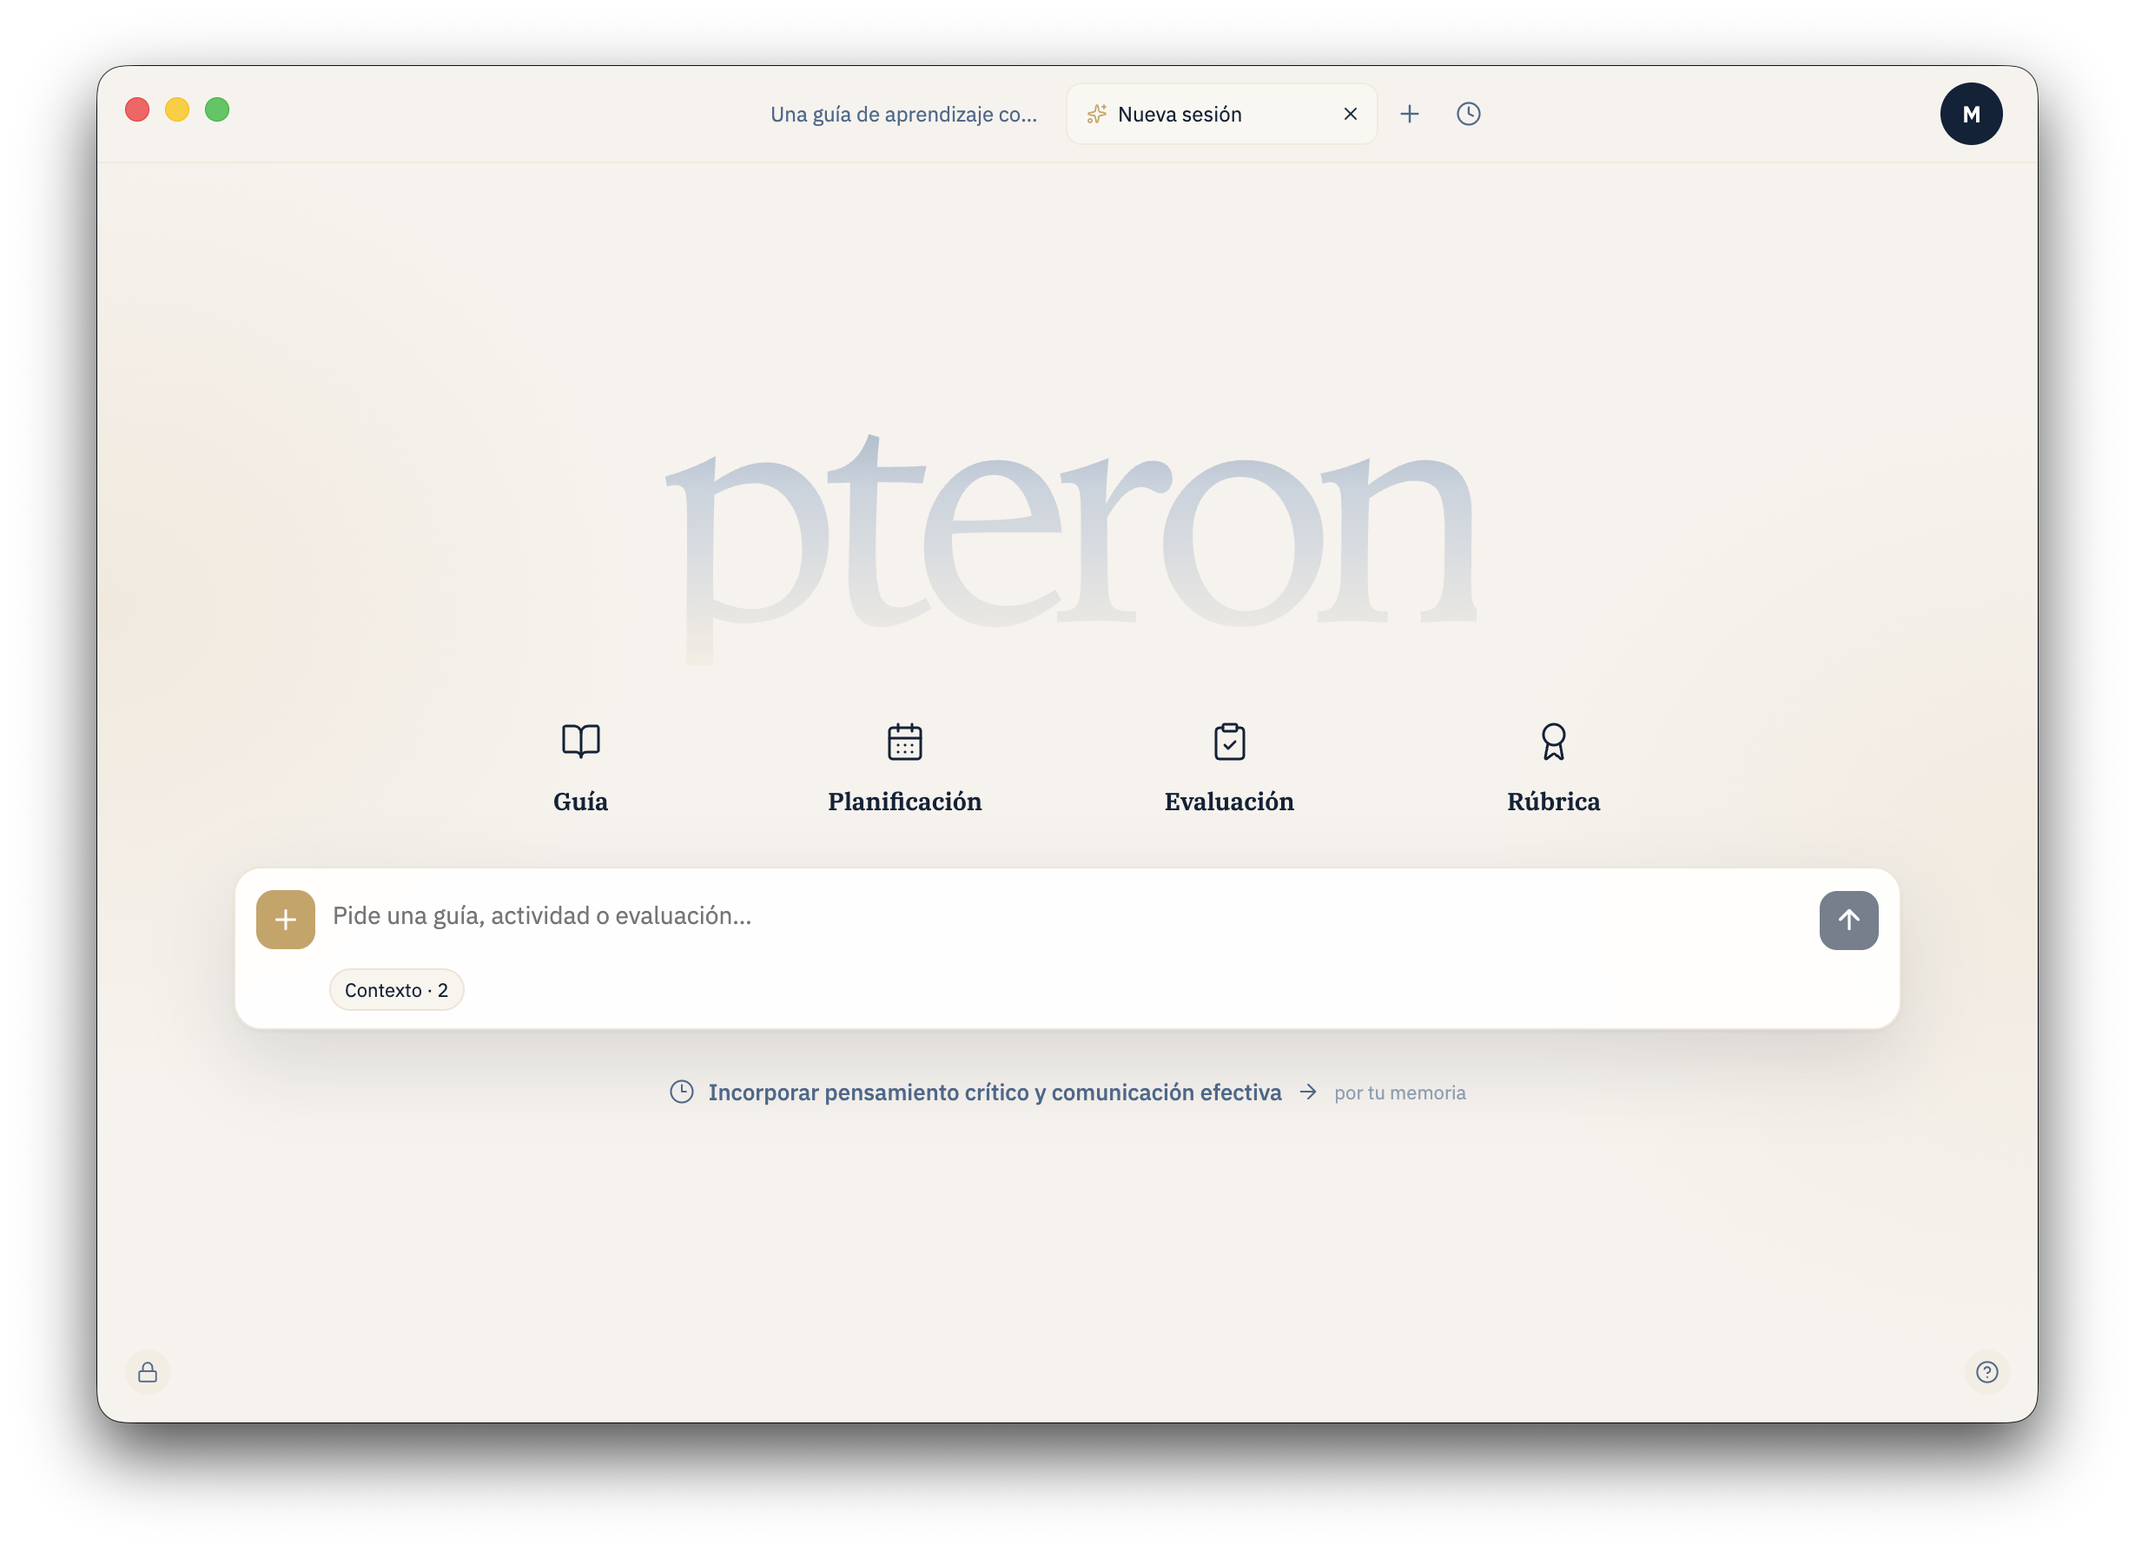
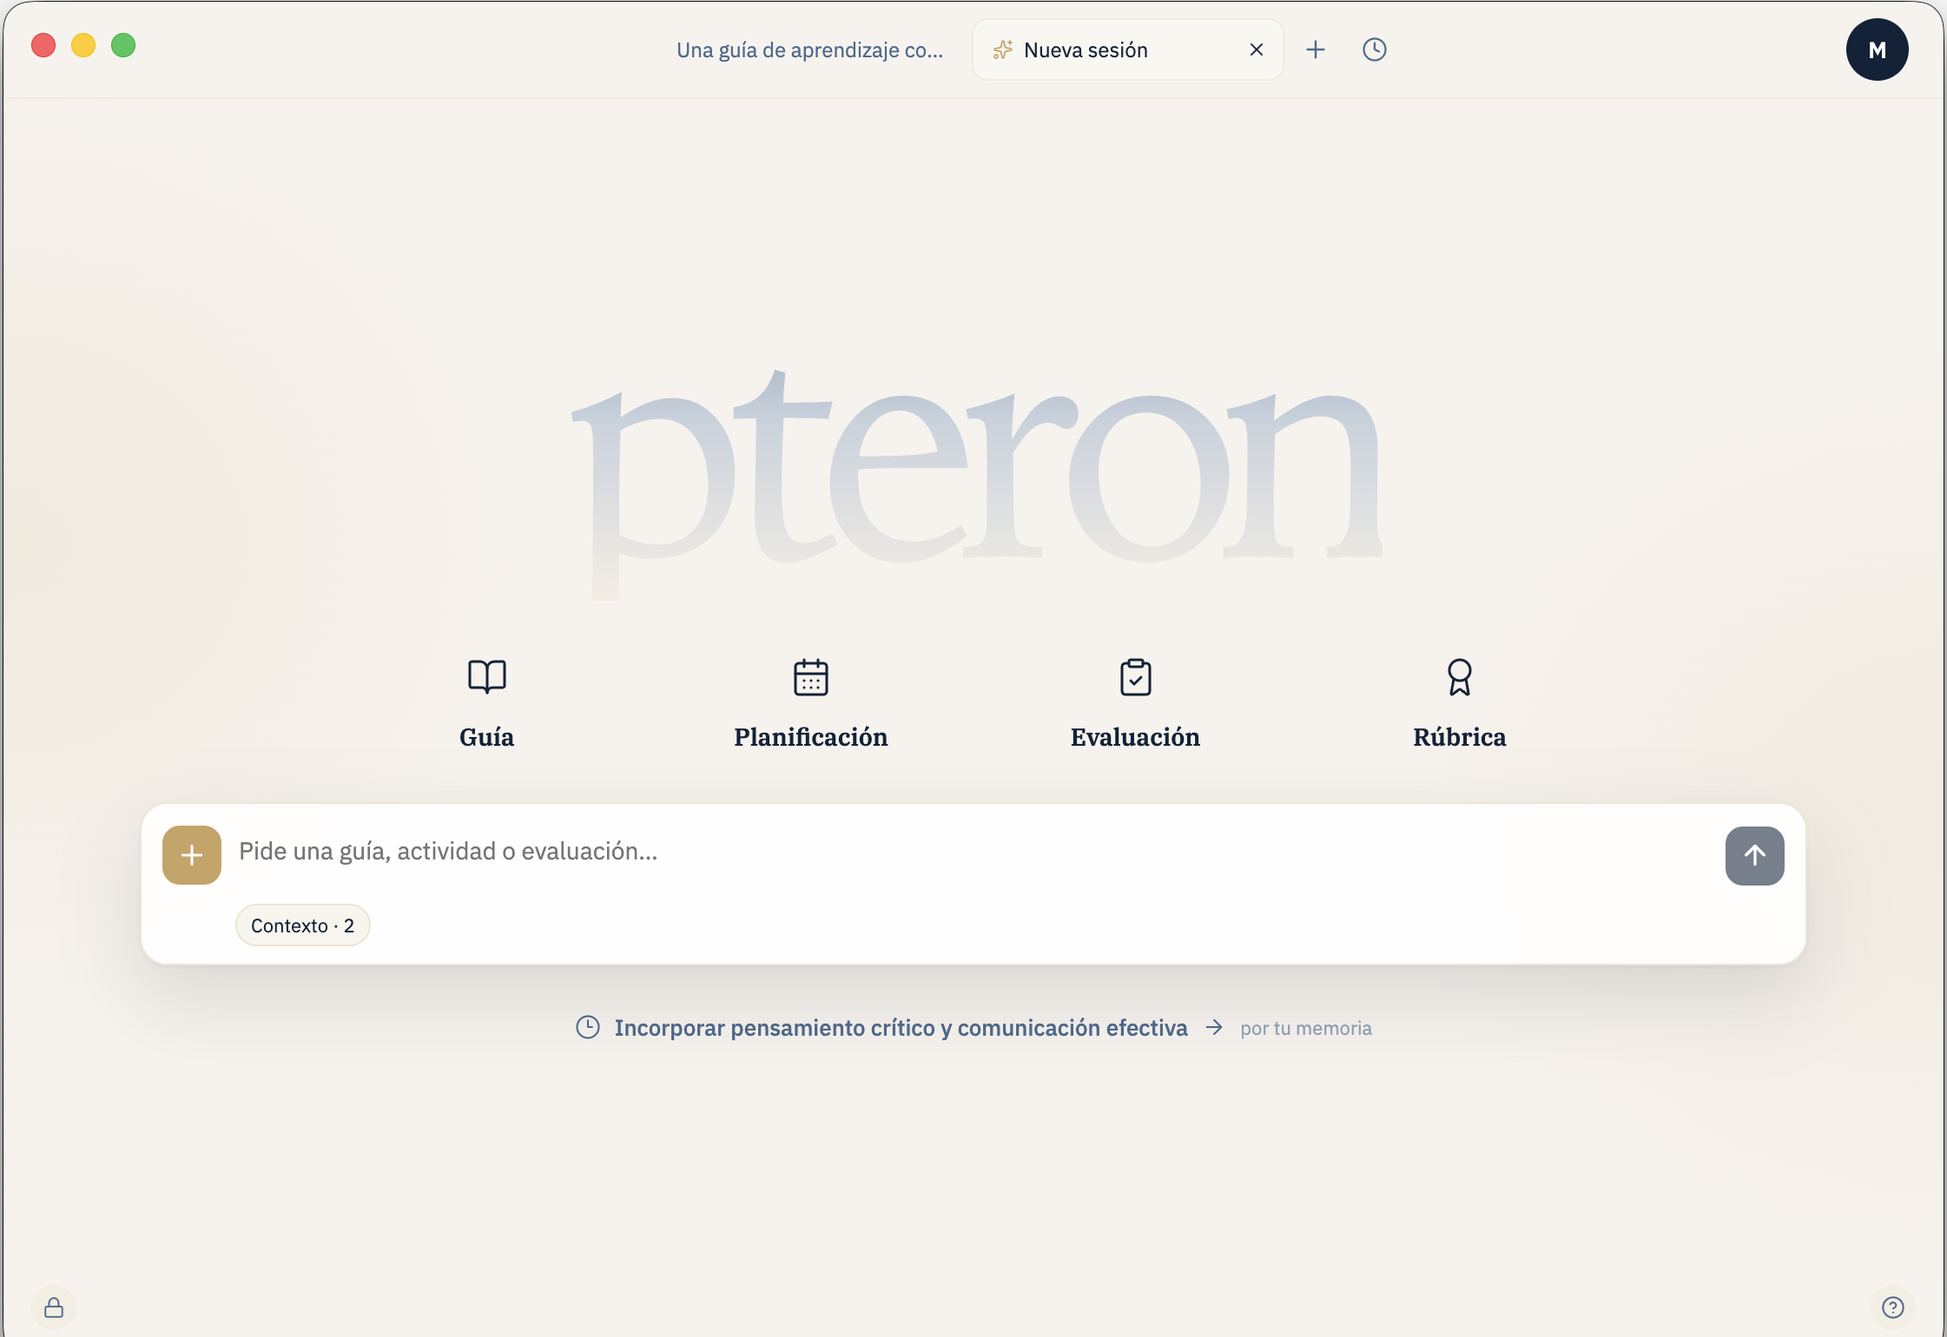
Improve mobile video loading experience

diff --git a/script.js b/script.js
@@ -1,4 +1,46 @@
 (() => {
+  const loader = document.querySelector('[data-page-loader]');
+  const loaderCanvas = document.querySelector('[data-loader-medusa]');
+  let loaderFrameId = 0;
+  let loaderTime = 0;
+  let loaderLastPaint = 0;
+
+  const drawMedusa = (now = 0) => {
+    if (!loaderCanvas || loader?.classList.contains('is-complete')) return;
+    loaderFrameId = window.requestAnimationFrame(drawMedusa);
+    if (now - loaderLastPaint < 32) return;
+    loaderLastPaint = now;
+
+    const context = loaderCanvas.getContext('2d');
+    const size = 400;
+    context.fillStyle = 'rgb(247, 243, 236)';
+    context.fillRect(0, 0, size, size);
+    loaderTime += Math.PI / 80;
+
+    for (let index = 10000; index > 0; index -= 1) {
+      const y = index / 235;
+      const k = (4 + Math.cos(index / 9 - loaderTime * 2)) * Math.cos(index / 35);
+      const e = y / 7 - 13;
+      const d = Math.hypot(k, e) + Math.sin(e / 9 + loaderTime / 2) - 4;
+      const q = 2 * Math.sin(k * 3) - y / 35 * k * (9 + k * Math.sin(Math.cos(e) * 9 - d * 2 + loaderTime));
+      const c = d - loaderTime;
+      const x = q + 40 * Math.cos(c) + 200;
+      const pointY = q * Math.sin(c) + d * 35;
+      context.fillStyle = index % 19 === 0
+        ? 'rgba(189, 120, 35, .42)'
+        : 'rgba(16, 36, 59, .38)';
+      context.fillRect(x, pointY, 1, 1);
+    }
+  };
+
+  const finishLoading = () => {
+    window.cancelAnimationFrame(loaderFrameId);
+    loader?.classList.add('is-complete');
+    document.documentElement.classList.remove('is-loading');
+  };
+
+  drawMedusa();
+
   const header = document.querySelector('[data-header]');
   const menuButton = document.querySelector('[data-menu-button]');
   const nav = document.querySelector('[data-nav]');
@@ -66,22 +108,51 @@
   const video = document.querySelector('[data-scroll-video]');
   const progressLabel = document.querySelector('[data-scroll-progress]');
   const product = film?.querySelector('.hero-product');
-  if (!film || !video) return;
+  if (!film || !video) {
+    finishLoading();
+    return;
+  }
   const reducedMotion = window.matchMedia('(prefers-reduced-motion: reduce)').matches;
+  const filmStage = film.querySelector('.scroll-film-sticky');
   let frameId = 0;
   let targetTime = 0;
 
   video.pause();
 
-  const prepareLocalVideo = async () => {
-    if (!['localhost', '127.0.0.1'].includes(window.location.hostname)) return;
+  const waitForVideo = (eventName, readyState, timeout = 20000) => new Promise((resolve, reject) => {
+    if (video.readyState >= readyState) {
+      resolve();
+      return;
+    }
+    const timeoutId = window.setTimeout(() => {
+      video.removeEventListener(eventName, onReady);
+      reject(new Error(`Video ${eventName} timeout`));
+    }, timeout);
+    const onReady = () => {
+      window.clearTimeout(timeoutId);
+      resolve();
+    };
+    video.addEventListener(eventName, onReady, { once: true });
+  });
+
+  const prepareVideo = async () => {
     try {
       const response = await fetch('/assets/pteron-scroll.mp4');
+      if (!response.ok) throw new Error(`Video request failed: ${response.status}`);
       const blob = await response.blob();
       video.src = URL.createObjectURL(blob);
+      video.load();
     } catch {
-      // Keep the original source when the local preview cannot create a seekable blob.
+      video.load();
     }
+
+    await waitForVideo('loadedmetadata', 1);
+    const playback = video.play();
+    if (playback) await playback.catch(() => {});
+    await waitForVideo('loadeddata', 2);
+    video.pause();
+    video.currentTime = 0;
+    filmStage?.classList.add('is-video-ready');
   };
 
   const updateFilm = () => {
@@ -97,7 +168,7 @@
     if (progressLabel) progressLabel.textContent = `${String(Math.round(progress * 100)).padStart(2, '0')} — 100`;
     if (product) {
       const enter = Math.min(1, Math.max(0, progress / .16));
-      const startOffset = window.innerWidth <= 560 ? 56 : 62;
+      const startOffset = window.innerWidth <= 560 ? 48 : 62;
       const offset = startOffset * (1 - enter);
       product.style.transform = `translate3d(-50%, ${offset}vh, 0)`;
     }
@@ -110,5 +181,13 @@
   video.addEventListener('loadedmetadata', updateFilm);
   window.addEventListener('scroll', requestFilmUpdate, { passive: true });
   window.addEventListener('resize', requestFilmUpdate, { passive: true });
-  prepareLocalVideo().finally(updateFilm);
+  Promise.all([
+    prepareVideo(),
+    new Promise((resolve) => window.setTimeout(resolve, 800))
+  ]).catch(() => {
+    filmStage?.classList.remove('is-video-ready');
+  }).finally(() => {
+    updateFilm();
+    finishLoading();
+  });
 })();

diff --git a/styles.css b/styles.css
@@ -16,6 +16,7 @@
 
 * { box-sizing: border-box; }
 html { scroll-behavior: smooth; }
+html.is-loading { overflow: hidden; }
 body {
   margin: 0;
   color: var(--ink);
@@ -26,6 +27,13 @@ body {
   -webkit-font-smoothing: antialiased;
 }
 body.nav-open { overflow: hidden; }
+.page-loader {
+  position: fixed; z-index: 1000; inset: 0; display: grid; place-items: center;
+  background: var(--paper); opacity: 1; visibility: visible;
+  transition: opacity .45s ease, visibility 0s linear .45s;
+}
+.page-loader.is-complete { opacity: 0; visibility: hidden; pointer-events: none; }
+.loader-medusa { width: min(68vw, 320px); height: auto; }
 a { color: inherit; text-decoration: none; }
 button { font: inherit; }
 img { display: block; max-width: 100%; }
@@ -79,12 +87,15 @@ h1 { max-width: 1120px; margin-bottom: 36px; font-size: clamp(66px, 7.2vw, 112px
   background: #080a0d;
 }
 .scroll-film-sticky {
-  position: sticky; top: 0; height: 100vh; overflow: hidden; isolation: isolate; background: #080a0d;
+  position: sticky; top: 0; height: 100vh; overflow: hidden; isolation: isolate;
+  background: #35204c url("/assets/pteron-scroll-poster.jpg") center / cover no-repeat;
 }
 .scroll-film video {
   width: 100%; height: 100%; display: block; object-fit: cover;
-  filter: saturate(.88) brightness(.82);
+  opacity: 0; filter: saturate(.88) brightness(.82);
+  transition: opacity .2s ease;
 }
+.scroll-film-sticky.is-video-ready video { opacity: 1; }
 .scroll-film-sticky::after {
   content: ""; position: absolute; z-index: 1; inset: 0; pointer-events: none;
   background:
@@ -207,26 +218,36 @@ h1 { max-width: 1120px; margin-bottom: 36px; font-size: clamp(66px, 7.2vw, 112px
 }
 
 @media (max-width: 560px) {
-  :root { --container: calc(100% - 30px); }
-  .wordmark { font-size: 30px; }
-  .eyebrow { margin-bottom: 16px; font-size: 11px; }
-  h1 { font-size: 50px; line-height: .96; }
-  .hero-lead { font-size: 17px; }
+  :root { --container: calc(100% - 40px); }
+  .header-inner { min-height: 66px; }
+  .wordmark { font-size: 28px; }
+  .hero { padding-top: 108px; }
+  .eyebrow { max-width: 300px; margin-bottom: 14px; font-size: 10px; line-height: 1.45; letter-spacing: .11em; }
+  h1 { margin-bottom: 26px; font-size: clamp(40px, 11.2vw, 46px); line-height: .92; letter-spacing: -.045em; }
+  .hero-lower { gap: 24px; margin-bottom: 36px; }
+  .hero-lead { max-width: 350px; margin-bottom: 22px; font-size: 15px; line-height: 1.5; }
   .hero-actions { flex-direction: column; align-items: stretch; gap: 20px; }
+  .hero-actions .button { width: auto; min-height: 50px; align-self: flex-start; padding-inline: 22px; font-size: 14px; }
   .text-link { align-self: flex-start; }
-  .scroll-film { height: 190vh; }
+  .hero-note { padding-top: 16px; font-size: 20px; line-height: 1.15; }
+  .scroll-film { height: 165vh; margin-inline: -20px; }
   .stage-caption { inset-inline: 18px; }
-  .hero-product { top: 22vh; transform: translate3d(-50%, 56vh, 0); }
-  .product-window.hero-product { width: calc(100% - 30px); }
-  .section-intro h2, .principles h2, .pricing h2, .faq h2 { font-size: 48px; }
+  .hero-product { top: 18vh; transform: translate3d(-50%, 48vh, 0); }
+  .product-window.hero-product { width: calc(100% - 32px); }
+  .section { padding: 76px 0; }
+  .compact-story-grid h2, .section-intro h2, .principles h2, .pricing h2, .faq h2 { font-size: 40px; }
+  .compact-story-grid { gap: 20px; }
+  .compact-story-grid li { padding-block: 13px; font-size: 15px; }
   .process-list { grid-template-columns: 1fr; }
   .process-list li, .process-list li + li { min-height: 0; padding: 26px 0; border-right: 0; border-bottom: 1px solid var(--line); }
   .principles-list article { grid-template-columns: 1fr; gap: 14px; }
   .principles-list p { grid-column: 1; }
-  .principles-list h3 { font-size: 34px; }
+  .principles-list h3 { font-size: 31px; }
   .statement { padding-block: 110px; }
-  .statement h2 { font-size: 50px; }
-  .price strong { font-size: 56px; }
+  .statement h2 { font-size: 44px; }
+  .price strong { font-size: 50px; }
+  .final-cta { padding-block: 88px; }
+  .final-cta h2 { font-size: 44px; }
   .footer-grid > div { flex-direction: column; gap: 12px; }
 }
 

diff --git a/index.html b/index.html
@@ -23,10 +23,16 @@
   <link rel="icon" type="image/png" sizes="16x16" href="/assets/favicon-16.png">
   <link rel="apple-touch-icon" href="/assets/apple-touch-icon.png">
   <link rel="manifest" href="/manifest.webmanifest">
-  <script>document.documentElement.classList.add("js")</script>
+  <link rel="preload" as="image" href="/assets/pteron-scroll-poster.jpg">
+  <link rel="preload" as="image" href="/assets/product-home-current.png">
+  <script>document.documentElement.classList.add("js", "is-loading")</script>
   <link rel="stylesheet" href="/styles.css">
 </head>
 <body>
+  <div class="page-loader" data-page-loader role="status" aria-label="Cargando Pteron">
+    <canvas class="loader-medusa" data-loader-medusa width="400" height="400" aria-hidden="true"></canvas>
+  </div>
+
   <a class="skip-link" href="#contenido">Saltar al contenido</a>
 
   <header class="site-header" data-header>
@@ -77,7 +83,14 @@
               <span data-scroll-progress>00 — 100</span>
             </div>
             <figure class="product-window hero-product">
-              <img src="/assets/product-home-current.png" alt="Pantalla inicial completa de Pteron con accesos a guías, planificación, evaluación y rúbricas">
+              <img
+                src="/assets/product-home-current.png"
+                width="2242"
+                height="1540"
+                loading="eager"
+                fetchpriority="high"
+                alt="Pantalla inicial completa de Pteron con accesos a guías, planificación, evaluación y rúbricas"
+              >
             </figure>
           </div>
         </div>

diff --git a/design-qa.md b/design-qa.md
@@ -1,55 +1,38 @@
-# Pteron landing — Design QA
+# Design QA
 
-## Reference
+Date: 2026-07-28
 
-- Selected direction: `/Users/marcorojasbelmar/.codex/generated_images/019fa715-a99f-76e0-84af-c5e3241b485c/call_s9XBA5pe9wTTj8kiRKxapqcu.png`
-- Additional motion source: `/Users/marcorojasbelmar/Downloads/14556-258207702_medium.mp4`
-- Reference dimensions: 1536 × 1067 px
-- Reference state: desktop, top of landing page
+Target: Pteron landing, responsive mobile correction and video loading state
 
-## Implementation
+Reference: `IMG_3104.PNG` and `IMG_3105.PNG` captured on the user's iPhone
 
-- Local route: `http://127.0.0.1:4173/`
-- Desktop QA viewport: 1440 × 1000 px
-- Mobile QA viewport: 390 × 844 px
-- Desktop capture: `output/implementation-final.png`
-- Side-by-side comparison: `output/design-comparison.png`
+Verification viewport: 393 × 852 px
 
-## Comparison history
+## Reference findings
 
-1. Matched the selected editorial direction: ivory ground, navy serif hierarchy, restrained gold accents, compact navigation, manifesto copy and paired actions.
-2. Replaced the static product preview immediately below the hero with the user-provided atmospheric video.
-3. Implemented a 240vh scroll scene with a 100vh sticky viewport. Scroll progress maps linearly to the full 22.23-second video.
-4. Fixed the hero overflow rule so the sticky scene remains pinned rather than leaving a black remainder.
-5. Verified the midpoint at 50% scroll: video time 11.09 seconds, sticky top 0 px.
-6. Verified mobile at 390 × 844 px: no horizontal overflow, full-height scene, intentional vertical crop.
-7. Verified browser console: 0 errors, 0 warnings.
-8. Added a continuous transition in which the assistant interface rises over the film during its final scroll segment. At 72% progress it enters from the lower edge on both desktop and mobile.
+- Mobile display type was oversized: the headline, supporting copy, button, and note consumed too much vertical space.
+- Safari displayed the scroll-film area as an almost solid black field while the MP4 was not ready to provide a seeked frame.
+- `product-home-current.png` contained a large black canvas around the application window. Scaling that complete canvas made the actual product unnecessarily small.
+- The scroll-film negative margins expanded the mobile stage beyond the viewport.
 
-## Intentional differences
+## Corrections verified
 
-- The selected mock used a product screenshot below the hero. The final implementation uses the supplied cloud-and-water film in that position, as explicitly requested.
-- The implementation headline is slightly larger at the QA viewport to preserve the stronger typographic scale already approved during iteration.
+- Reduced and rebalanced the complete mobile type scale and spacing without changing the selected copy.
+- Kept the full application window and removed only the black canvas outside it. All four rounded application edges remain visible.
+- Added a full-page loading state that keeps the page hidden until the MP4 is decoded and seekable.
+- Adapted the supplied medusa animation to a canvas loader using Pteron's paper, ink, and gold palette. It contains no text or visible container.
+- Loads the MP4 into a local Blob before revealing the page, improving reliable seeking in iOS Safari. The poster remains as the failure fallback.
+- Preloaded the poster and product image, and added intrinsic image dimensions to prevent layout shifts.
+- Corrected mobile film margins. Final product-image bounds at 393 px viewport: left 16 px, right 377 px, width 361 px.
+- Horizontal overflow: 0 px.
+- Verified ready state after loading: loader dismissed, video class active, `readyState: 4`, Blob source active, video opacity `1`.
+- Browser console: 0 errors, 0 warnings.
 
-## Result
+## Visual result
 
-passed
+- Hero capture: `.playwright-cli/page-2026-07-28T12-53-03-014Z.png`
+- Film and complete product capture: `.playwright-cli/page-2026-07-28T12-56-45-227Z.png`
+- Loader capture: `.playwright-cli/loader-pteron-mobile-final.png`
+- Page after video readiness: `.playwright-cli/pteron-mobile-ready-final.png`
 
-## Synthesis iteration
-
-- Reduced the story to three moments: teaching load, human judgment, and access.
-- Kept the promise deliberately narrow: preparing and reviewing materials.
-- Added the origin statement: “Construido por profesores, para profesores”.
-- Replaced the earlier product capture with the complete user-provided application screenshot. It is rendered at its original aspect ratio without cropping, zooming, or internal repositioning.
-- Removed the false white extension below the application. Its cause was CSS Grid stretching the figure beyond the intrinsic image height; the figure now shrink-wraps the image and keeps a transparent background.
-- Desktop renders the complete screenshot at 88% of the content width so all four application edges fit inside the sticky viewport. Mobile uses the full available width. Neither breakpoint crops the image.
-- Final geometry check: the figure and image have identical bounds (1140.47 × 828.67 px on desktop; 360 × 261.58 px on mobile). Browser console: 0 errors and 0 warnings.
-
-## Adversarial copy and transition pass
-
-- Replaced fatigue-led copy with a factual product frame: “Tus fuentes. Tu criterio.”
-- Names the four concrete outputs once; avoids claims about saving time, improving teaching, or replacing judgment.
-- Removed the defensive “Nada más” and the repeated professor-origin statement from the closing section.
-- Standardized the conversion language around one ten-day trial; removed the conflicting “acceso anticipado”.
-- The complete application screenshot starts entering at 0% film progress, is clearly recognizable at 8%, and reaches its resting position at 16%.
-- Added a restrained translucent vignette over the film and an alpha-aware shadow around the real application silhouette. The interface itself remains opaque and uncropped.
+Final result: passed
